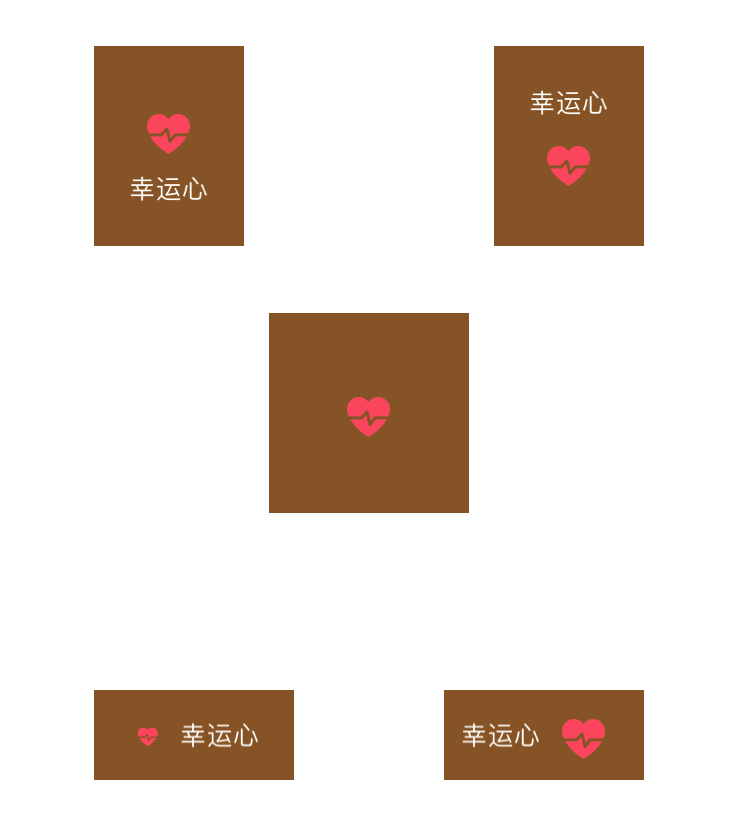
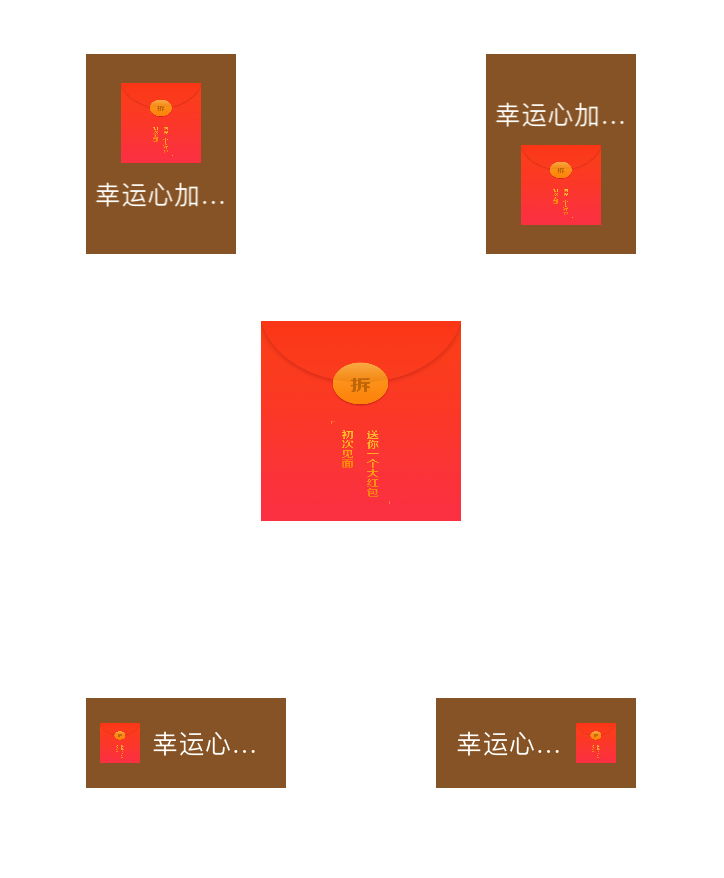
update pod files

diff --git a/CSButtonDemo/CSButton/ViewController.m b/CSButtonDemo/CSButton/ViewController.m
@@ -21,6 +21,9 @@
 #define kButton_w_v (75)
 #define kButton_h_v (100)
 
+#define kTestTitleName (@"幸运心加长加长加长")
+#define kTestImgName (@"icon_red")
+
 @interface ViewController ()
 
 @end
@@ -31,7 +34,6 @@
     [super viewDidLoad];
     
     [self setupUI];
-    
 }
 
 -(void)setupUI {
@@ -50,10 +52,12 @@
     
     button.titleLabel.font = [UIFont systemFontOfSize:13];
     [button setTitleColor:[UIColor whiteColor] forState:UIControlStateNormal];
-    [button setTitle:@"幸运心" forState:UIControlStateNormal];
+    [button setTitle:kTestTitleName forState:UIControlStateNormal];
     button.backgroundColor = [UIColor brownColor];
-    [button setImage:[UIImage imageNamed:@"icon_health"] forState:UIControlStateNormal];
+    [button setImage:[UIImage imageNamed:kTestImgName] forState:UIControlStateNormal];
+    button.titleLabel.lineBreakMode = NSLineBreakByTruncatingTail;
     
+    button.cs_imageSize = CGSizeMake(40, 40);
     button.cs_buttonImagePositionType = CSButtonImagePositionTypeTop;
 }
 
@@ -65,10 +69,12 @@
     
     button.titleLabel.font = [UIFont systemFontOfSize:13];
     [button setTitleColor:[UIColor whiteColor] forState:UIControlStateNormal];
-    [button setTitle:@"幸运心" forState:UIControlStateNormal];
+    [button setTitle:kTestTitleName forState:UIControlStateNormal];
     button.backgroundColor = [UIColor brownColor];
-    [button setImage:[UIImage imageNamed:@"icon_health"] forState:UIControlStateNormal];
+    [button setImage:[UIImage imageNamed:kTestImgName] forState:UIControlStateNormal];
+    button.titleLabel.lineBreakMode = NSLineBreakByTruncatingTail;
     
+    button.cs_imageSize = CGSizeMake(40, 40);
     button.cs_buttonImagePositionType = CSButtonImagePositionTypeBottom;
 }
 
@@ -79,7 +85,7 @@
     [self.view addSubview:button];
     
     button.backgroundColor = [UIColor brownColor];
-    [button setImage:[UIImage imageNamed:@"icon_health"] forState:UIControlStateNormal];
+    [button setImage:[UIImage imageNamed:kTestImgName] forState:UIControlStateNormal];
 }
 
 -(void)leftImageButton{
@@ -89,12 +95,14 @@
     
     button.titleLabel.font = [UIFont systemFontOfSize:13];
     [button setTitleColor:[UIColor whiteColor] forState:UIControlStateNormal];
-    [button setTitle:@"幸运心" forState:UIControlStateNormal];
+    [button setTitle:kTestTitleName forState:UIControlStateNormal];
     button.backgroundColor = [UIColor brownColor];
-    [button setImage:[UIImage imageNamed:@"icon_health"] forState:UIControlStateNormal];
+    [button setImage:[UIImage imageNamed:kTestImgName] forState:UIControlStateNormal];
+    button.titleLabel.lineBreakMode = NSLineBreakByTruncatingTail;
     
+    button.cs_titleMaxWith = 60;
     button.cs_middleDistance = 6;
-    button.cs_imageViewSize = CGSizeMake(20, 20);
+    button.cs_imageSize = CGSizeMake(20, 20);
     button.cs_buttonImagePositionType = CSButtonImagePositionTypeDefault;
 }
 
@@ -105,10 +113,13 @@
     
     button.titleLabel.font = [UIFont systemFontOfSize:13];
     [button setTitleColor:[UIColor whiteColor] forState:UIControlStateNormal];
-    [button setTitle:@"幸运心" forState:UIControlStateNormal];
+    [button setTitle:kTestTitleName forState:UIControlStateNormal];
     button.backgroundColor = [UIColor brownColor];
-    [button setImage:[UIImage imageNamed:@"icon_health"] forState:UIControlStateNormal];
+    [button setImage:[UIImage imageNamed:kTestImgName] forState:UIControlStateNormal];
+    button.titleLabel.lineBreakMode = NSLineBreakByTruncatingTail;
     
+    button.cs_titleMaxWith = 60;
+    button.cs_imageSize = CGSizeMake(20, 20);
     button.cs_buttonImagePositionType = CSButtonImagePositionTypeRight;
 }
 

diff --git a/CSButton/CSButton.m b/CSButton/CSButton.m
@@ -24,7 +24,7 @@
     [super layoutSubviews];
 
     CGRect imgRect_temp = self.imageView.frame;
-    imgRect_temp.size = self.cs_imageViewSize;
+    imgRect_temp.size = self.cs_imageSize;
     CGRect titleRect_temp = self.titleLabel.frame;
     
     CGFloat distance_v = 0.0;
@@ -34,17 +34,21 @@
     
     CGSize titleSzie = [title boundingRectWithSize:CGSizeMake(self.frame.size.width, MAXFLOAT) options:NSStringDrawingTruncatesLastVisibleLine | NSStringDrawingUsesLineFragmentOrigin | NSStringDrawingUsesFontLeading attributes:@{NSFontAttributeName : self.titleLabel.font} context:nil].size;
     
+    if (_cs_titleMaxWith) {
+        titleSzie.width = _cs_titleMaxWith;
+    }
+    
+    titleRect_temp.size = titleSzie;
+    
     if (_cs_buttonImagePositionType == CSButtonImagePositionTypeDefault ||
         _cs_buttonImagePositionType == CSButtonImagePositionTypeRight) {
-        
         distance_h = _cs_middleDistance;
     }else {
         distance_v = _cs_middleDistance;
-        titleRect_temp.size.width = titleSzie.width;
     }
     
-    CGFloat margin_x = (self.frame.size.width - (imgRect_temp.size.width + self.titleLabel.bounds.size.width) - distance_h) / 2;
-    CGFloat margin_y = (self.frame.size.height - (imgRect_temp.size.height + self.titleLabel.bounds.size.height) - distance_v) / 2;
+    CGFloat margin_x = (self.frame.size.width - (imgRect_temp.size.width + titleRect_temp.size.width) - distance_h) / 2;
+    CGFloat margin_y = (self.frame.size.height - (imgRect_temp.size.height + titleRect_temp.size.height) - distance_v) / 2;
     
     CGFloat img_y_h = (self.frame.size.height - imgRect_temp.size.height) / 2;
     CGFloat label_y_h = (self.frame.size.height - titleSzie.height) / 2;
@@ -87,14 +91,16 @@
 }
 
 
--(CGSize)cs_imageViewSize {
+-(CGSize)cs_imageSize {
     
-    if (_cs_imageViewSize.height == 0 || _cs_imageViewSize.width == 0) {
+    if (_cs_imageSize.height == 0.0 || _cs_imageSize.width == 0.0) {
         
         return self.imageView.frame.size;
     }else {
-        return _cs_imageViewSize;
+        return _cs_imageSize;
     }
 }
+
+
 
 @end

diff --git a/CSButtonDemo/CSButton/lib/CSButton.m b/CSButtonDemo/CSButton/lib/CSButton.m
@@ -24,7 +24,7 @@
     [super layoutSubviews];
 
     CGRect imgRect_temp = self.imageView.frame;
-    imgRect_temp.size = self.cs_imageViewSize;
+    imgRect_temp.size = self.cs_imageSize;
     CGRect titleRect_temp = self.titleLabel.frame;
     
     CGFloat distance_v = 0.0;
@@ -34,17 +34,21 @@
     
     CGSize titleSzie = [title boundingRectWithSize:CGSizeMake(self.frame.size.width, MAXFLOAT) options:NSStringDrawingTruncatesLastVisibleLine | NSStringDrawingUsesLineFragmentOrigin | NSStringDrawingUsesFontLeading attributes:@{NSFontAttributeName : self.titleLabel.font} context:nil].size;
     
+    if (_cs_titleMaxWith) {
+        titleSzie.width = _cs_titleMaxWith;
+    }
+    
+    titleRect_temp.size = titleSzie;
+    
     if (_cs_buttonImagePositionType == CSButtonImagePositionTypeDefault ||
         _cs_buttonImagePositionType == CSButtonImagePositionTypeRight) {
-        
         distance_h = _cs_middleDistance;
     }else {
         distance_v = _cs_middleDistance;
-        titleRect_temp.size.width = titleSzie.width;
     }
     
-    CGFloat margin_x = (self.frame.size.width - (imgRect_temp.size.width + self.titleLabel.bounds.size.width) - distance_h) / 2;
-    CGFloat margin_y = (self.frame.size.height - (imgRect_temp.size.height + self.titleLabel.bounds.size.height) - distance_v) / 2;
+    CGFloat margin_x = (self.frame.size.width - (imgRect_temp.size.width + titleRect_temp.size.width) - distance_h) / 2;
+    CGFloat margin_y = (self.frame.size.height - (imgRect_temp.size.height + titleRect_temp.size.height) - distance_v) / 2;
     
     CGFloat img_y_h = (self.frame.size.height - imgRect_temp.size.height) / 2;
     CGFloat label_y_h = (self.frame.size.height - titleSzie.height) / 2;
@@ -87,14 +91,16 @@
 }
 
 
--(CGSize)cs_imageViewSize {
+-(CGSize)cs_imageSize {
     
-    if (_cs_imageViewSize.height == 0 || _cs_imageViewSize.width == 0) {
+    if (_cs_imageSize.height == 0.0 || _cs_imageSize.width == 0.0) {
         
         return self.imageView.frame.size;
     }else {
-        return _cs_imageViewSize;
+        return _cs_imageSize;
     }
 }
+
+
 
 @end

diff --git a/CSButton/CSButton.h b/CSButton/CSButton.h
@@ -24,6 +24,9 @@ typedef NS_ENUM(NSInteger, CSButtonImagePositionType) {
 @property (nonatomic, assign) CGFloat cs_middleDistance;
 
 /// Custom size for imageView
-@property (nonatomic, assign) CGSize cs_imageViewSize;
+@property (nonatomic, assign) CGSize cs_imageSize;
+
+/// The max with for titleLable
+@property (nonatomic, assign) CGFloat cs_titleMaxWith;
 
 @end

diff --git a/CSButtonDemo/CSButton/lib/CSButton.h b/CSButtonDemo/CSButton/lib/CSButton.h
@@ -24,6 +24,9 @@ typedef NS_ENUM(NSInteger, CSButtonImagePositionType) {
 @property (nonatomic, assign) CGFloat cs_middleDistance;
 
 /// Custom size for imageView
-@property (nonatomic, assign) CGSize cs_imageViewSize;
+@property (nonatomic, assign) CGSize cs_imageSize;
+
+/// The max with for titleLable
+@property (nonatomic, assign) CGFloat cs_titleMaxWith;
 
 @end
